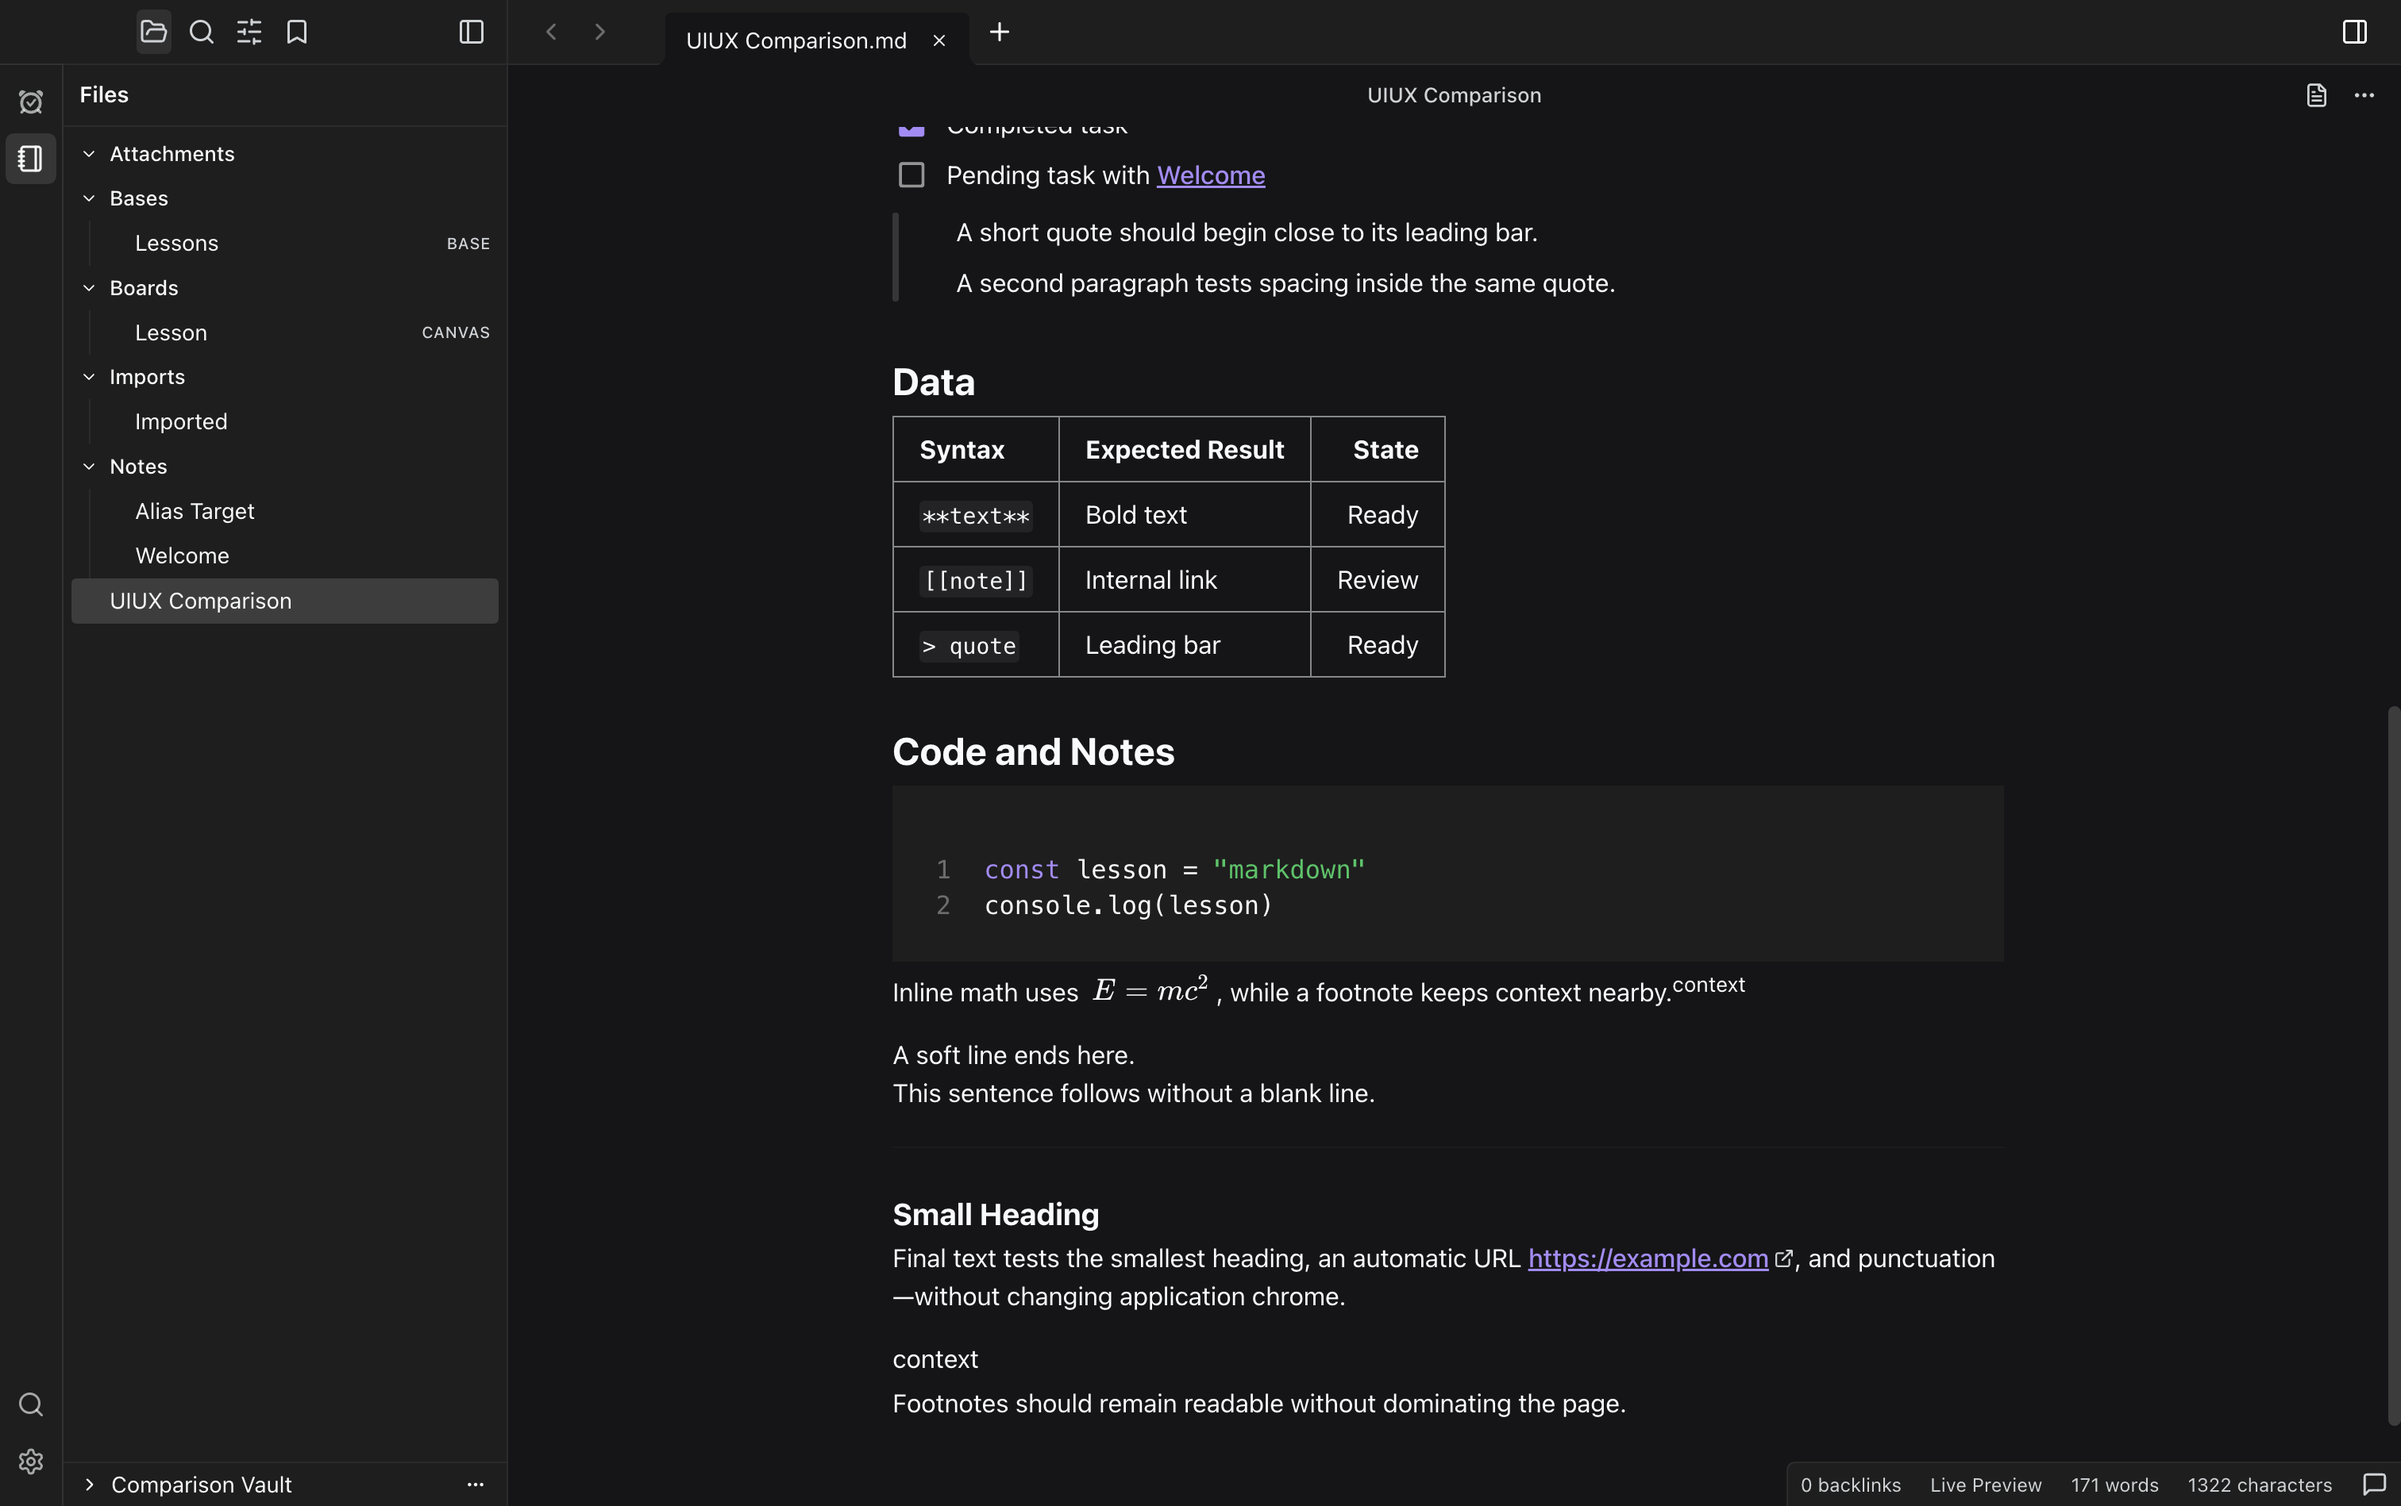
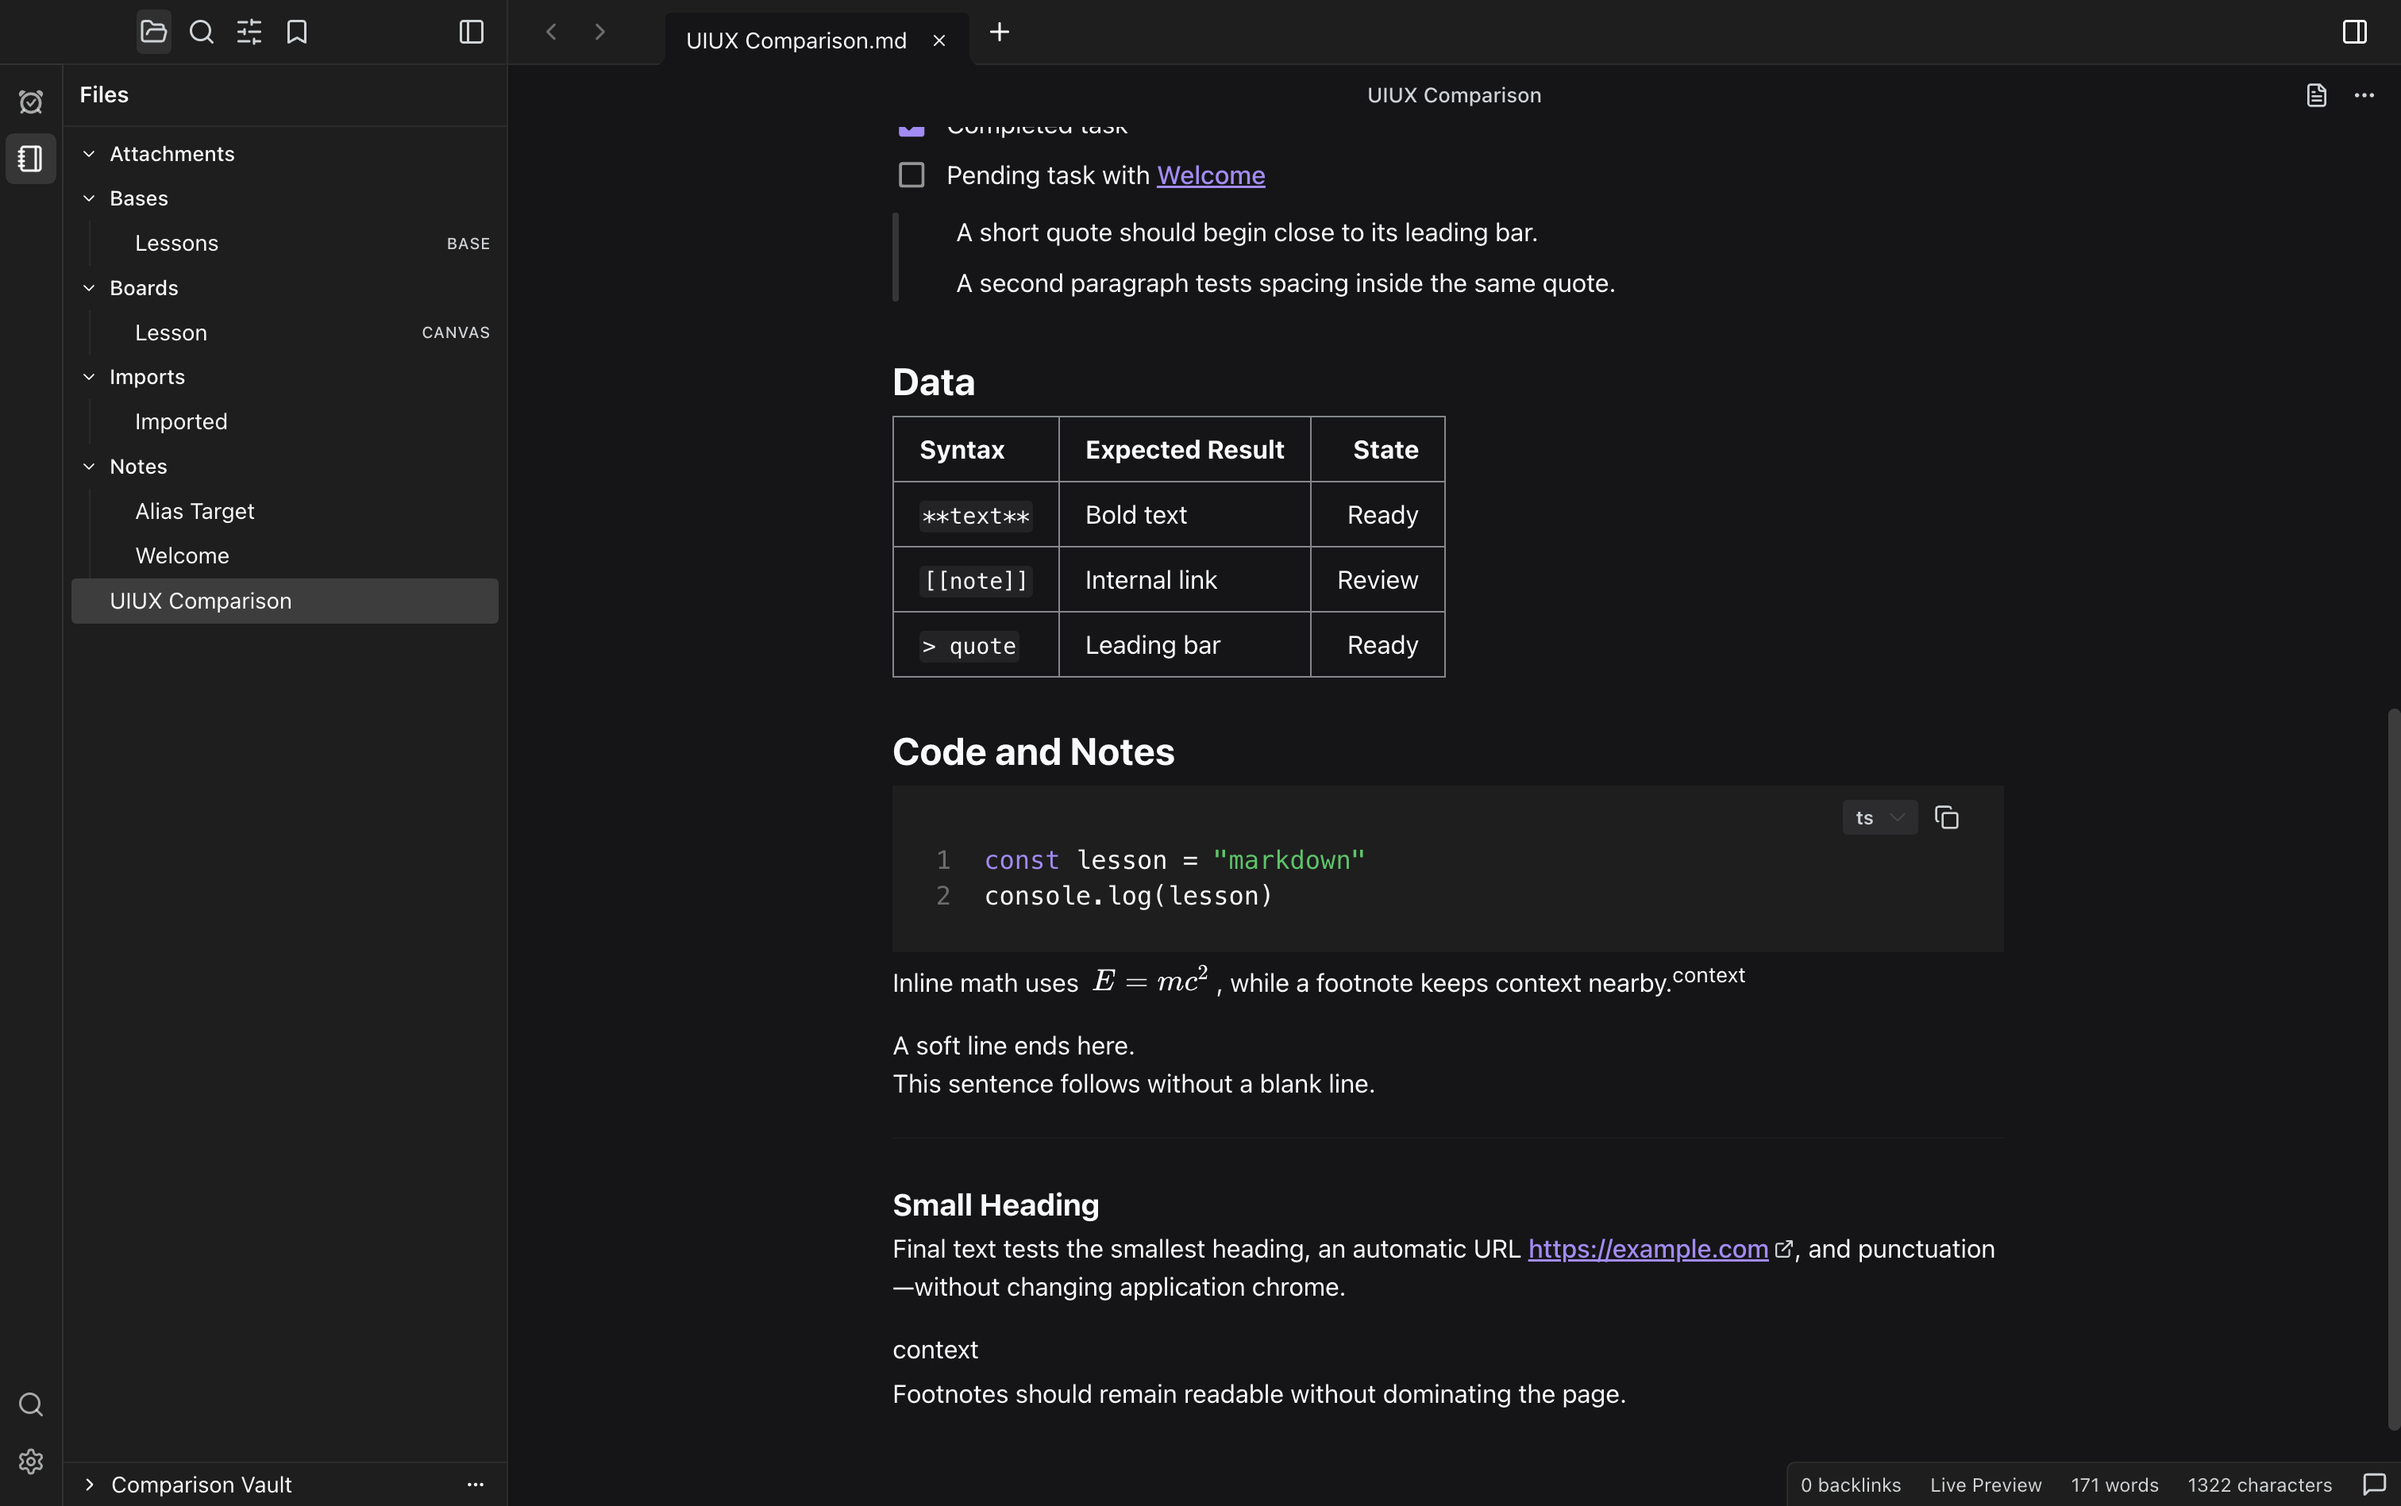
docs(tocktutor): show persistent code language and copy controls

Changed region(s): [[0.373, 0.7771, 0.8393, 0.9326], [0.373, 0.6528, 0.7149, 0.746], [0.4041, 0.5595, 0.5595, 0.6217]]

diff --git a/.agents/uiux/tocktutor/content-alignment.md b/.agents/uiux/tocktutor/content-alignment.md
@@ -1,5 +1,9 @@
 # TockTutor and Obsidian Content Alignment
 
+## Live Preview Language and Copy Controls — 2026-09-25
+
+Refreshed only `tocktutor-live-preview-lower.png` from the source-built Desktop. The `ts` language picker and a separate Lucide Copy icon are visible at the top right without hover, and both stay visible while editing. Focusing the code reveals display-only opening and closing fences (the opening fence reads “```ts”); the note source is unchanged. The Copy icon becomes Copy Check after a successful copy and resets; an isolated renderer-local clipboard stub verified this without touching the OS clipboard. The normal-state screenshot is 1512 × 949 CSS pixels at 2× (3024 × 1898), built-in dark with no active skin. Final capture-time console/page errors were empty, the guarded app tree stopped with no descendants, and `content-alignment.json` records the route, computed visibility, modes, hash, and cleanup. All 62 other screenshots, including every Obsidian reference, retained their hashes.
+
 ## Compact Live Preview Table and Code Retake — 2026-09-25
 
 Refreshed only `tocktutor-live-preview-lower.png` from the isolated source-built Desktop. Its Data table is left-aligned at 348.5px within the 700px editor, with stronger semantic-token borders; the `ts` code fence renders colored `const` and string tokens; and the authored lines “A soft line ends here.” / “This sentence follows without a blank line.” render on separate lines without rewriting the note. The lower view shows Data, Code and Notes, and Small Heading at scrollTop 700. The capture is 1512 × 949 CSS pixels at 2× (3024 × 1898), built-in dark, no active skin, and had no capture-time console or renderer errors. The guarded Desktop process tree stopped with no descendants. `content-alignment.json` records the new image hash, route, computed colors, geometry, and cleanup; the other 62 screenshots, including all Obsidian references, retained their hashes.
